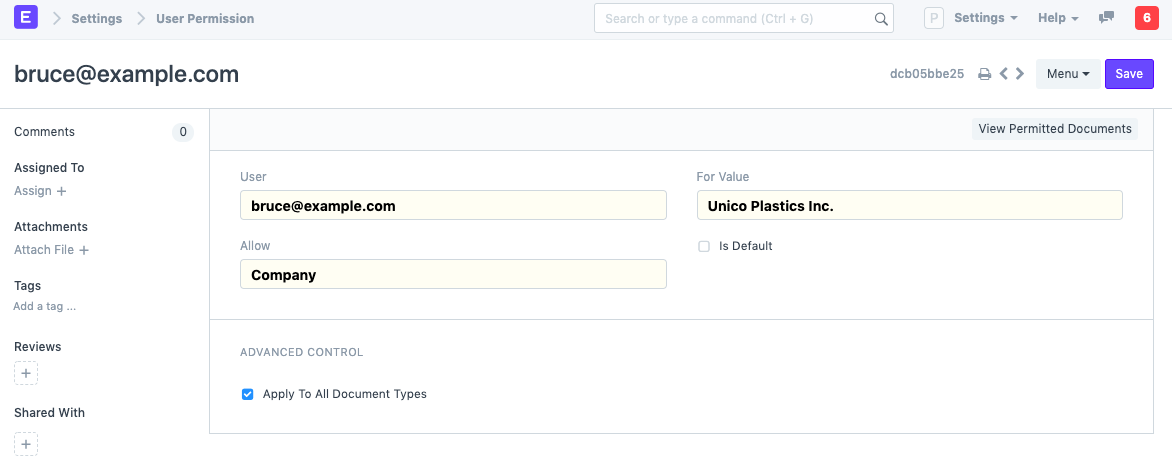
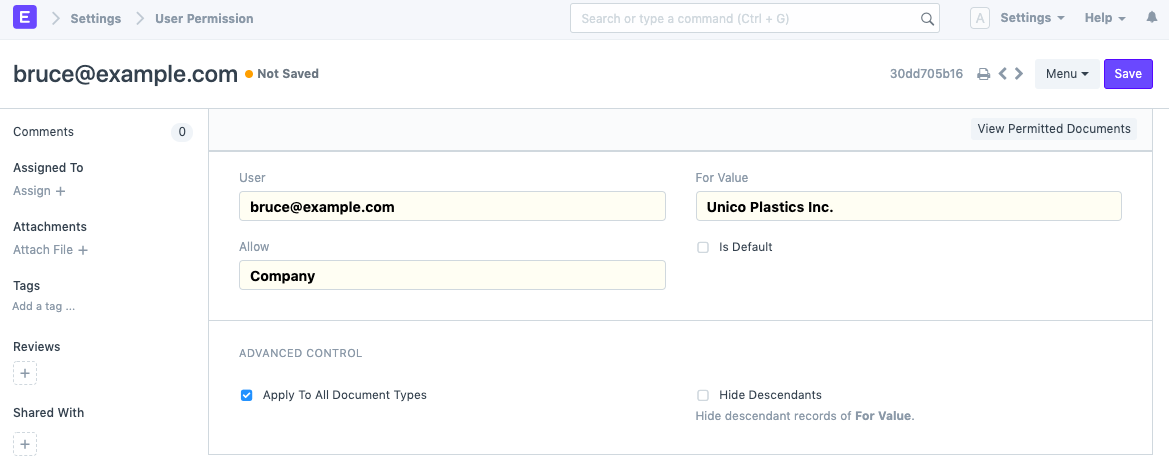
docs: Hide Descendants on User Permissions

diff --git a/erpnext_documentation/www/docs/user/manual/en/setting-up/users-and-permissions/user-permissions.md b/erpnext_documentation/www/docs/user/manual/en/setting-up/users-and-permissions/user-permissions.md
@@ -31,14 +31,30 @@ To access User Permissions, go to:
 ## 2. More User Permission actions
 ### 2.1 Advanced control
 
+In Advanced control, you can have better command over where the User Permission is applied.
+
+### 2.1.1. Applicable For
+
 You can optionally apply user permissions only for specific document type by setting the Document Type after unticking the Apply To All Document Types checkbox.
 Setting **Applicable For** option will make the current user permission applicable only under the selected Document Type master.
 
-<img src="{{docs_base_url}}/assets/img/users-and-permissions/user-perms/advanced-control.png" class="screenshot" alt="Advance control">
+<img src="{{docs_base_url}}/assets/img/users-and-permissions/user-perms/advanced-control.png" class="screenshot" alt="Applicable For">
 
 In the above User Permission, the user will be able to access only Sales Orders of the selected company.
 
 **Note:** If **Applicable For** is not set, User Permission will apply across all related Document Types.
+
+### 2.1.2. Hide Descendants
+
+The value of **Allow** could be a DocType with a Tree View, which will have records with a parent-child or ancestor-descendant relationship.
+
+Let's assume **For Value**, 'Unico Plastics Inc.', has a child company 'Unico Toys'. When a User Permission is created for 'Unico Plastics Inc.', permissions for it's descendants are granted as well.
+
+**Hide Descendants** is visible only on selecting a Tree View DocType. By enabling this checkbox, permissions for descendants of **For Value** will not be granted.
+
+<img src="{{docs_base_url}}/assets/img/users-and-permissions/user-perms/hide-descendant-permissions.png" class="screenshot" alt="Hide Descendant Permissions">
+
+A user that can view records of 'Unico Plactics' will not be able to view those of 'Unico Toys'.
 
 ### 2.2 Ignoring User Permissions on Certain Fields
 
